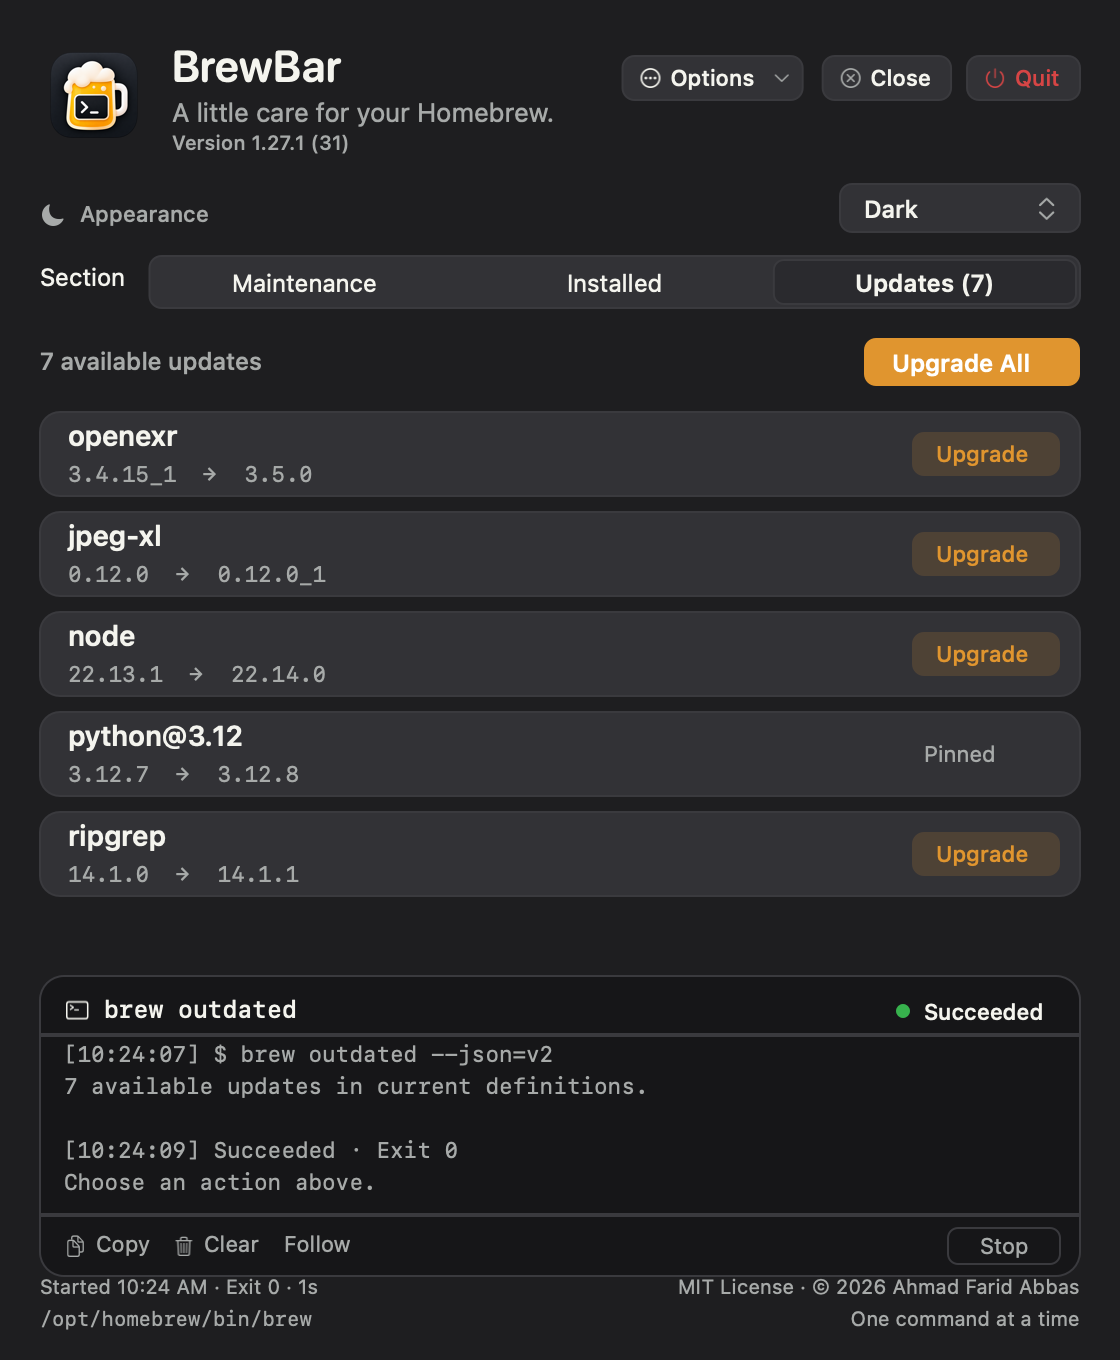
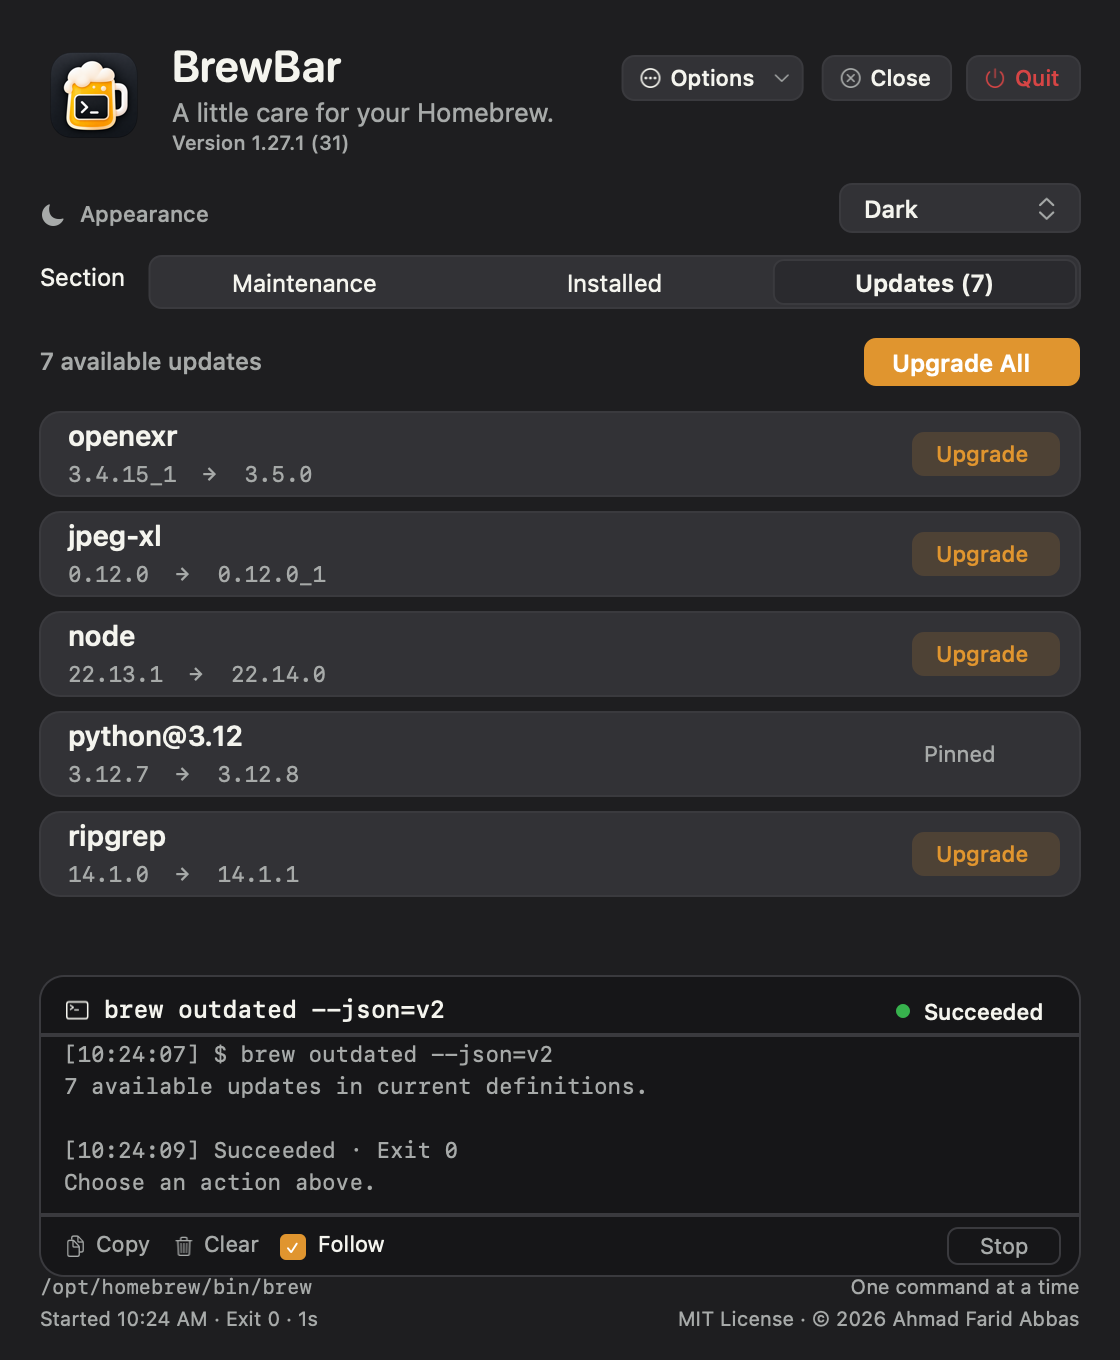
Refine website renders: full console command, Follow checkbox, footer line order
Match the app more closely: idle console header shows the full 'brew outdated
--json=v2' command; the Follow toggle now shows its checked amber checkbox; and
the footer line order matches the app (brew path + tagline on top, run status +
MIT/copyright below). Renders only — no app/version change.

Changed region(s): [[0.5938, 0.9265, 0.9688, 0.9882], [0.0312, 0.8956, 0.3438, 0.9882], [0.3125, 0.7412, 0.375, 0.7721]]

diff --git a/src/Design/RenderSite.swift b/src/Design/RenderSite.swift
@@ -365,7 +365,7 @@ func renderDashboard(width: CGFloat, height: CGFloat, theme t: Theme, tab: Tab,
     fill(consoleRect, t.console, radius: 12); strokeRect(consoleRect, t.line, radius: 12)
     let chY = consoleRect.maxY - 30
     symbol("terminal", NSRect(x: pad + 12, y: chY + 6, width: 14, height: 14), color: t.ink)
-    text(running ? "brew upgrade" : "brew outdated", NSPoint(x: pad + 32, y: chY + 6), size: 12, color: t.ink, weight: .medium, mono: true)
+    text(running ? "brew upgrade" : "brew outdated --json=v2", NSPoint(x: pad + 32, y: chY + 6), size: 12, color: t.ink, weight: .medium, mono: true)
     let dotColor = running ? t.accent : t.green
     fill(NSRect(x: consoleRect.maxX - 92, y: chY + 9, width: 7, height: 7), dotColor, radius: 3.5)
     text(running ? "Running" : "Succeeded", NSPoint(x: consoleRect.maxX - 78, y: chY + 5), size: 11, color: t.ink, weight: .medium)
@@ -395,21 +395,26 @@ func renderDashboard(width: CGFloat, height: CGFloat, theme t: Theme, tab: Tab,
     text("Copy", NSPoint(x: pad + 28, y: consoleRect.minY + 9), size: 11, color: t.muted)
     symbol("trash", NSRect(x: pad + 66, y: consoleRect.minY + 9, width: 12, height: 12), color: t.muted)
     text("Clear", NSPoint(x: pad + 82, y: consoleRect.minY + 9), size: 11, color: t.muted)
-    text("Follow", NSPoint(x: pad + 122, y: consoleRect.minY + 9), size: 11, color: t.muted)
+    // Follow: a checked amber checkbox + label (the app shows Follow enabled by default).
+    let cbSide: CGFloat = 13
+    let cbRect = NSRect(x: pad + 120, y: consoleRect.minY + 8, width: cbSide, height: cbSide)
+    fill(cbRect, t.accent, radius: 3)
+    symbol("checkmark", NSRect(x: cbRect.minX + 2.5, y: cbRect.minY + 3, width: cbSide - 5, height: cbSide - 6), color: .white, weight: .bold)
+    text("Follow", NSPoint(x: cbRect.maxX + 6, y: consoleRect.minY + 9), size: 11, color: t.ink)
     let stopR = NSRect(x: consoleRect.maxX - 66, y: consoleRect.minY + 6, width: 56, height: 18)
     if running { fill(stopR, t.red, radius: 5); text("Stop", NSPoint(x: stopR.minX + 16, y: stopR.midY - 7), size: 11, color: .white, weight: .medium) }
     else { strokeRect(stopR, t.line, radius: 5); text("Stop", NSPoint(x: stopR.minX + 16, y: stopR.midY - 7), size: 11, color: t.muted) }
 
-    // Footer — two lines, matching the app.
-    // Top line: run status (left) + license/copyright (right).
-    let statusLeft = running ? "Started 10:24 AM · Running" : "Started 10:24 AM · Exit 0 · 1s"
-    text(statusLeft, NSPoint(x: pad, y: pad + 10), size: 10, color: t.muted)
-    let license = "MIT License · © 2026 Ahmad Farid Abbas"
-    text(license, NSPoint(x: width - pad - measure(license, 10), y: pad + 10), size: 10, color: t.muted)
-    // Bottom line: brew path (left) + tagline (right).
-    text("/opt/homebrew/bin/brew", NSPoint(x: pad, y: pad - 6), size: 10, color: t.muted, mono: true)
+    // Footer — two lines, matching the app's order.
+    // Top line: brew path (left) + tagline (right).
+    text("/opt/homebrew/bin/brew", NSPoint(x: pad, y: pad + 10), size: 10, color: t.muted, mono: true)
     let ftr = "One command at a time"
-    text(ftr, NSPoint(x: width - pad - measure(ftr, 10), y: pad - 6), size: 10, color: t.muted)
+    text(ftr, NSPoint(x: width - pad - measure(ftr, 10), y: pad + 10), size: 10, color: t.muted)
+    // Bottom line: run status (left) + license/copyright (right).
+    let statusLeft = running ? "Started 10:24 AM · Running" : "Started 10:24 AM · Exit 0 · 1s"
+    text(statusLeft, NSPoint(x: pad, y: pad - 6), size: 10, color: t.muted)
+    let license = "MIT License · © 2026 Ahmad Farid Abbas"
+    text(license, NSPoint(x: width - pad - measure(license, 10), y: pad - 6), size: 10, color: t.muted)
 
     NSGraphicsContext.restoreGraphicsState()
     return bmp
